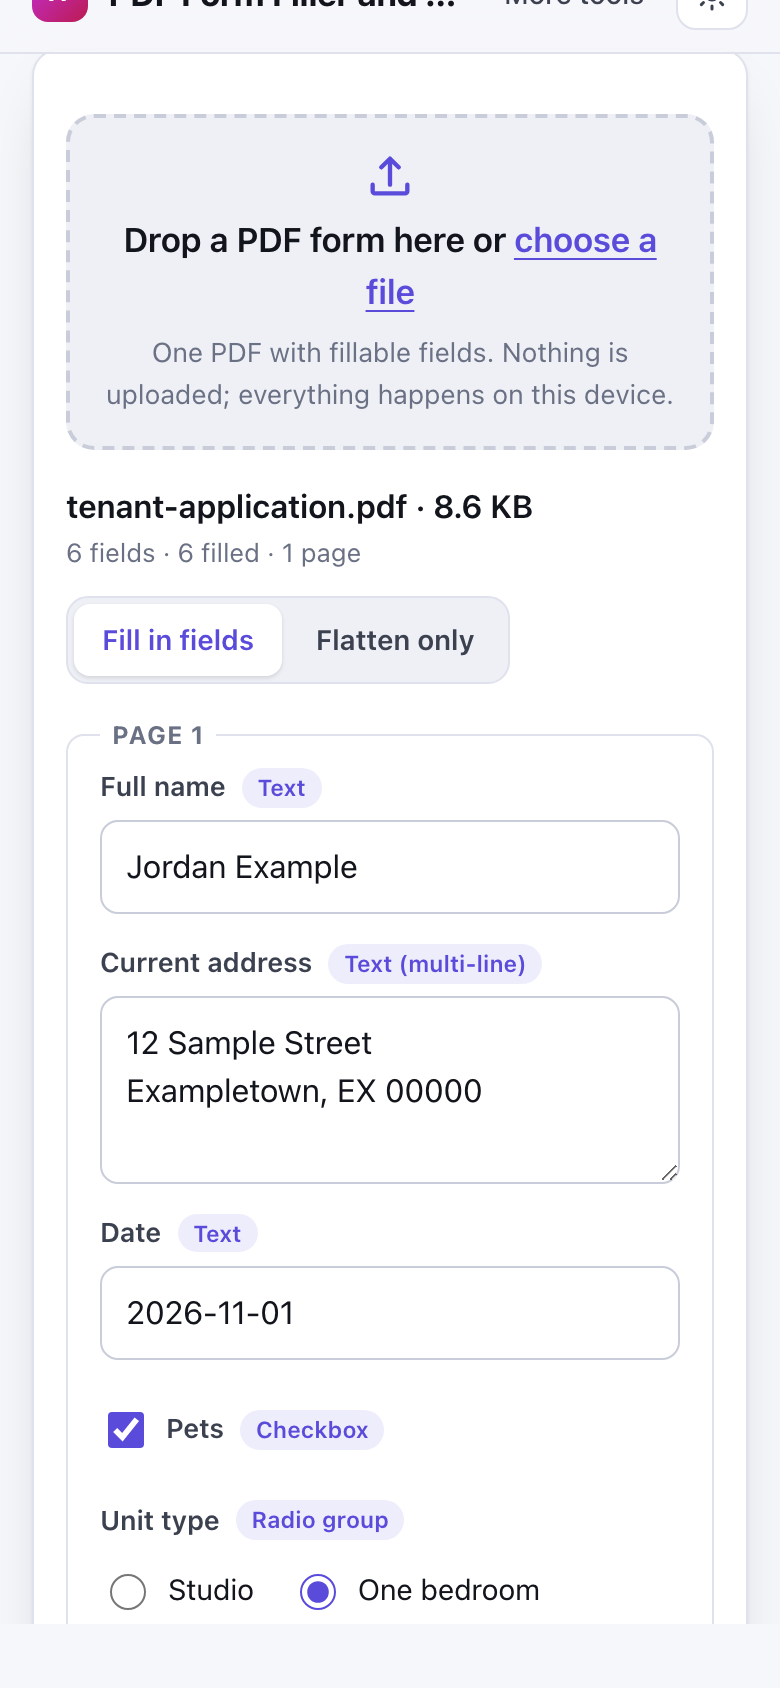
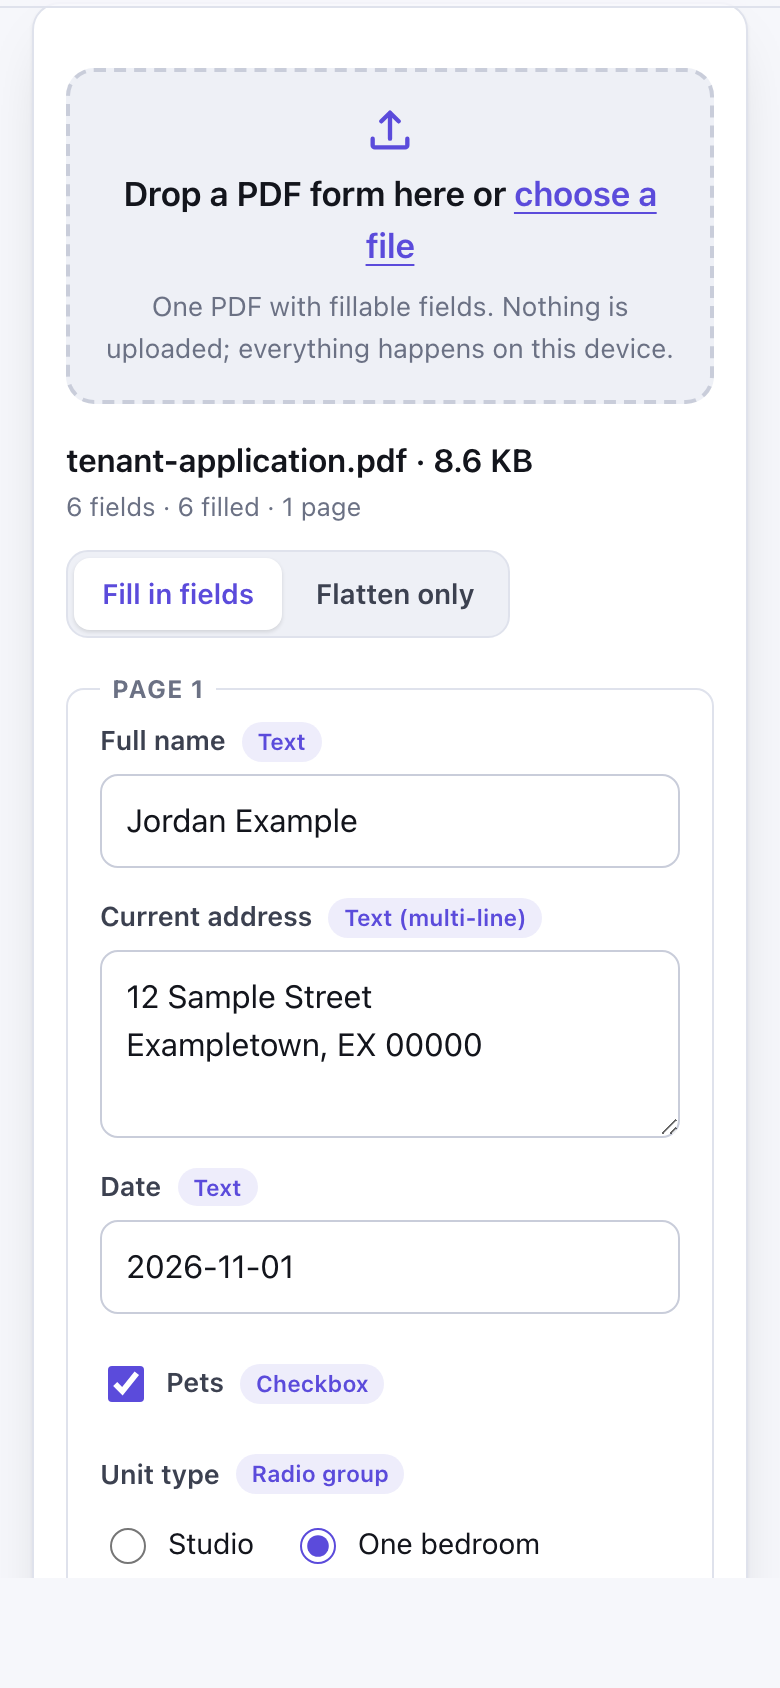
Update tool, tests and docs

diff --git a/worker.js b/worker.js
@@ -4,7 +4,7 @@
 /* global PDFLib */
 importScripts('vendor/pdf-lib/pdf-lib.min.js');
 
-const { PDFDocument, PDFName, StandardFonts, PDFTextField, PDFCheckBox, PDFRadioGroup, PDFDropdown, PDFOptionList, PDFSignature, PDFButton } = PDFLib;
+const { PDFDocument, PDFName, PDFRef, StandardFonts, PDFTextField, PDFCheckBox, PDFRadioGroup, PDFDropdown, PDFOptionList, PDFSignature, PDFButton } = PDFLib;
 
 function kindOf(field) {
   // The minified build mangles constructor names, so classify with instanceof.
@@ -98,6 +98,86 @@ function fontSizeOf(field) {
   return m ? Number(m[1]) : 0;
 }
 
+// pdf-lib's auto font size (0) for multi-line fields picks a huge size and pushes every line after the
+// first outside the box, so compute a size where the wrapped text really fits and set it explicitly.
+function fitMultilineSize(field, font, text) {
+  const widget = field.acroField.getWidgets()[0];
+  if (!widget) return 10;
+  const rect = widget.getRectangle();
+  const width = Math.max(1, rect.width - 6);
+  const height = Math.max(1, rect.height - 4);
+  const lineHeight = 1.15;
+  const countLines = (size) => {
+    let lines = 0;
+    for (const para of String(text).split(/\r\n|\r|\n/)) {
+      const words = para.split(' ');
+      let line = '';
+      lines += 1;
+      for (const word of words) {
+        const candidate = line ? `${line} ${word}` : word;
+        if (font.widthOfTextAtSize(candidate, size) <= width || !line) line = candidate;
+        else { lines += 1; line = word; }
+      }
+    }
+    return lines;
+  };
+  for (let size = 12; size >= 4; size -= 0.5) {
+    if (countLines(size) * size * lineHeight <= height) return size;
+  }
+  return 4;
+}
+
+// Auto size (0) or a size the text no longer fits at (pdf-lib writes its oversized guess into the DA): shrink.
+function fitMultiline(field, font, text) {
+  if (!text) return;
+  const current = fontSizeOf(field);
+  const fitted = fitMultilineSize(field, font, text);
+  if (current === 0 || current > fitted) field.setFontSize(fitted);
+}
+
+// Widgets with no normal appearance make pdf-lib's flatten() and removeField() throw ("Unexpected N type").
+// Give them an empty appearance so they can be drawn (as nothing) or removed cleanly.
+function ensureAppearance(doc, widget) {
+  try { widget.getNormalAppearance(); return true; } catch { /* no /AP /N: repair below */ }
+  try {
+    const r = widget.getRectangle();
+    const xo = doc.context.formXObject([], { BBox: [0, 0, Math.max(1, r.width), Math.max(1, r.height)] });
+    widget.setNormalAppearance(doc.context.register(xo));
+    return true;
+  } catch {
+    return false;
+  }
+}
+
+// Remove a field even when pdf-lib's own removeField cannot (widget without a page or appearance).
+function removeFieldSafely(form, field) {
+  try { form.removeField(field); return true; } catch { /* fall back to detaching it from the field tree */ }
+  try {
+    const refs = [];
+    const kids = field.acroField.normalizedEntries().Kids;
+    if (kids) for (let i = 0; i < kids.size(); i++) { const k = kids.get(i); if (k instanceof PDFRef) refs.push(k); }
+    refs.push(field.ref);
+    for (const page of form.doc.getPages()) for (const ref of refs) { try { page.node.removeAnnot(ref); } catch { /* ignore */ } }
+    form.acroForm.removeField(field.acroField);
+    return true;
+  } catch {
+    return false;
+  }
+}
+
+// pdf-lib leaves the removed widgets' references in each page's /Annots; drop the ones that no longer resolve.
+function pruneAnnots(doc) {
+  for (const page of doc.getPages()) {
+    let annots;
+    try { annots = page.node.Annots(); } catch { continue; }
+    if (!annots) continue;
+    for (let i = annots.size() - 1; i >= 0; i--) {
+      const ref = annots.get(i);
+      if (ref instanceof PDFRef && !doc.context.lookup(ref)) annots.remove(i);
+    }
+  }
+}
+
 function applyValue(form, font, v) {
   const field = form.getField(v.name);
   const kind = kindOf(field);
@@ -110,8 +190,10 @@ function applyValue(form, font, v) {
       throw Object.assign(new Error(`text was cut to the field's limit of ${max} characters`), { partial: () => field.setText(text) });
     }
     field.setText(text);
-    // Long single-line text: switch to auto font size (0) so it shrinks to fit the box.
-    if (text && !field.isMultiline() && !field.isCombed()) {
+    if (field.isMultiline()) {
+      fitMultiline(field, font, text);
+    } else if (text && !field.isCombed()) {
+      // Long single-line text: switch to auto font size (0) so it shrinks to fit the box.
       const size = fontSizeOf(field) || 12;
       const widget = field.acroField.getWidgets()[0];
       if (widget && font.widthOfTextAtSize(text, size) > widget.getRectangle().width - 4) field.setFontSize(0);
@@ -155,7 +237,11 @@ async function save(bytes, values, flatten, flattenOnly, progress) {
     const kind = kindOf(field);
     if (kind === 'signature' || kind === 'button') continue;
     try {
-      if (field.needsAppearancesUpdate()) field.defaultUpdateAppearances(font);
+      if (field.needsAppearancesUpdate()) {
+        // Prefilled multi-line fields with auto size get the same fitted size as the ones typed here.
+        if (kind === 'text' && field.isMultiline()) fitMultiline(field, font, field.getText() || '');
+        field.defaultUpdateAppearances(font);
+      }
     } catch (err) {
       warnings.push({ field: field.getName(), message: `could not draw the value (${err.message || err})` });
     }
@@ -167,16 +253,22 @@ async function save(bytes, values, flatten, flattenOnly, progress) {
     for (const field of form.getFields()) {
       const kind = kindOf(field);
       let ok = true;
-      try {
-        for (const w of field.acroField.getWidgets()) { form.findWidgetPage(w); form.findWidgetAppearanceRef(field, w); }
-      } catch { ok = false; }
+      for (const w of field.acroField.getWidgets()) {
+        if (!ensureAppearance(doc, w)) ok = false;
+        try { form.findWidgetPage(w); form.findWidgetAppearanceRef(field, w); } catch { ok = false; }
+      }
       if (!ok || kind === 'signature') {
         if (kind === 'signature') warnings.push({ field: field.getName(), message: 'signature field skipped and removed (signing is not supported)' });
         else warnings.push({ field: field.getName(), message: 'removed because it has no drawable appearance' });
-        try { form.removeField(field); } catch { /* ignore */ }
+        if (!removeFieldSafely(form, field)) warnings.push({ field: field.getName(), message: 'could not be removed; it was left as is' });
       }
     }
-    form.flatten({ updateFieldAppearances: false });
+    try {
+      form.flatten({ updateFieldAppearances: false });
+    } catch (err) {
+      throw Object.assign(new Error(`the form could not be flattened (${err.message || err}). Try saving with "Flatten after filling" off.`), { code: 'flatten' });
+    }
+    pruneAnnots(doc);
   }
   progress(0.85);
   const out = await doc.save();

diff --git a/tests/smoke.spec.js b/tests/smoke.spec.js
@@ -45,6 +45,25 @@ function pdfText(bytes) {
 const hex = (s) => Buffer.from(s, 'latin1').toString('hex').toUpperCase();
 const containsText = (bytes, s) => { const t = pdfText(bytes); return t.includes(s) || t.toUpperCase().includes(hex(s)); };
 
+// Font size and text positions of the appearance stream that draws `s` (hex encoded, as pdf-lib writes it).
+function drawnText(bytes, s) {
+  const raw = Buffer.from(bytes).toString('latin1');
+  const re = /stream\r?\n/g;
+  let m;
+  while ((m = re.exec(raw))) {
+    const start = m.index + m[0].length;
+    const end = raw.indexOf('endstream', start);
+    if (end < 0) break;
+    let text;
+    try { text = zlib.inflateSync(Buffer.from(raw.slice(start, end), 'latin1')).toString('latin1'); } catch { text = raw.slice(start, end); }
+    if (!text.toUpperCase().includes(hex(s))) continue;
+    const size = Number((text.match(/([\d.]+)\s+Tf/) || [])[1]);
+    const ys = [...text.matchAll(/1 0 0 1 [\d.-]+ ([\d.-]+) Tm/g)].map((x) => Number(x[1]));
+    return { size, ys };
+  }
+  return null;
+}
+
 test.describe('PDF Form Filler and Flattener', () => {
   test('loading the bundled form lists its fields with types', async ({ page }) => {
     await openForm(page);
@@ -100,6 +119,46 @@ test.describe('PDF Form Filler and Flattener', () => {
     // The download button in the result card offers the same file again.
     const [again] = await Promise.all([page.waitForEvent('download'), page.click('#download')]);
     expect(again.suggestedFilename()).toBe('tenant-application_filled.pdf');
+  });
+
+  test('multi-line text stays inside its box at a readable size when flattened', async ({ page }) => {
+    await openForm(page);
+    await page.getByLabel('Current address').fill('12 Sample Street\nExampletown, EX 00000\nThird line');
+    const bytes = await saveAndDownload(page);
+    expect((await PDFDocument.load(bytes)).getForm().getFields()).toHaveLength(0);
+    // pdf-lib's auto size used to pick ~53 pt and push lines 2+ below the 63 pt box, where they were clipped.
+    const drawn = drawnText(bytes, 'Exampletown, EX 00000');
+    expect(drawn, 'the second line is drawn').not.toBeNull();
+    expect(drawn.size).toBeGreaterThanOrEqual(4);
+    expect(drawn.size).toBeLessThanOrEqual(14);
+    expect(drawn.ys).toHaveLength(3);
+    for (const y of drawn.ys) { expect(y).toBeGreaterThanOrEqual(0); expect(y).toBeLessThanOrEqual(63); }
+  });
+
+  test('a form with an unsigned signature field that has no appearance still flattens', async ({ page }) => {
+    await page.goto('./');
+    await page.setInputFiles('#file-input', fixture('signature-form.pdf'));
+    await expect(page.locator('#summary')).toHaveText(/2 fields · 0 filled · 1 page · 1 skipped/);
+    await expect(field(page, 'Signature').locator('.ff__type').first()).toHaveText('Signature');
+    await expect(field(page, 'Signature')).toContainText('skipped');
+    await page.getByLabel('Applicant').fill('Casey Placeholder');
+    await page.getByLabel('Notes').fill('first line\nsecond line');
+    const [download] = await Promise.all([page.waitForEvent('download'), page.click('#save')]);
+    expect(download.suggestedFilename()).toBe('signature-form_filled.pdf');
+    const bytes = fs.readFileSync(await download.path());
+    const doc = await PDFDocument.load(bytes);
+    expect(doc.getForm().getFields()).toHaveLength(0);
+    expect(containsText(bytes, 'Casey Placeholder')).toBe(true);
+    expect(containsText(bytes, 'second line')).toBe(true);
+    // No stale widget references are left on the page after flattening.
+    const annots = doc.getPage(0).node.Annots();
+    expect(annots ? annots.size() : 0).toBe(0);
+    await expect(page.locator('#results .alert--error')).toHaveCount(0);
+    await expect(page.locator('#warnings')).toContainText('Signature: signature field skipped');
+    // Flatten only works on the same file too.
+    await page.locator('label.seg', { hasText: 'Flatten only' }).click();
+    const [again] = await Promise.all([page.waitForEvent('download'), page.click('#save')]);
+    expect((await PDFDocument.load(fs.readFileSync(await again.path()))).getForm().getFields()).toHaveLength(0);
   });
 
   test('flatten only mode flattens the form as is', async ({ page }) => {

diff --git a/tests/fixtures/make-fixtures.js b/tests/fixtures/make-fixtures.js
@@ -2,7 +2,7 @@
 // Run from the tool folder: node tests/fixtures/make-fixtures.js
 const fs = require('fs');
 const path = require('path');
-const { PDFDocument, StandardFonts, rgb } = require('../../vendor/pdf-lib/pdf-lib.min.js');
+const { PDFDocument, StandardFonts, rgb, PDFString } = require('../../vendor/pdf-lib/pdf-lib.min.js');
 
 const out = (name) => path.join(__dirname, name);
 
@@ -63,8 +63,30 @@ async function encrypted() {
   fs.writeFileSync(out('encrypted.pdf'), Buffer.from(patched, 'latin1'));
 }
 
+// A short form whose unsigned signature field has no appearance stream (common in generated forms); the text
+// field has a multi-line box with auto font size. Both used to break flattening.
+async function signatureForm() {
+  const doc = await PDFDocument.create();
+  doc.setTitle('Signature Demo');
+  const page = doc.addPage([595, 842]);
+  const font = await doc.embedFont(StandardFonts.Helvetica);
+  const form = doc.getForm();
+  page.drawText('Signature Demo - fictional sample form', { x: 50, y: 780, size: 14, font });
+  form.createTextField('Applicant').addToPage(page, { x: 50, y: 700, width: 300, height: 24 });
+  const notes = form.createTextField('Notes');
+  notes.enableMultiline();
+  notes.addToPage(page, { x: 50, y: 600, width: 400, height: 60 });
+  const sig = doc.context.obj({ FT: 'Sig', T: PDFString.of('Signature'), Type: 'Annot', Subtype: 'Widget', Rect: [50, 480, 300, 540], F: 4, P: page.ref });
+  const sigRef = doc.context.register(sig);
+  form.acroForm.addField(sigRef);
+  page.node.addAnnot(sigRef);
+  form.updateFieldAppearances(font);
+  fs.writeFileSync(out('signature-form.pdf'), await doc.save({ updateFieldAppearances: false }));
+}
+
 (async () => {
   await tenantForm();
   await encrypted();
+  await signatureForm();
   console.log('fixtures written');
 })();

diff --git a/sw.js b/sw.js
@@ -1,6 +1,6 @@
 // sw.js — offline support. VERSION and ASSETS are generated by the factory from the real file list
 // (web_build.finalize_sw) right before the tests run; the builder does not edit this file.
-const VERSION = 'a20e1c0cee';
+const VERSION = 'c2d85b226d';
 const ASSETS = ["./", "./app.js", "./icon.svg", "./icons/icon-192.png", "./icons/icon-512.png", "./index.html", "./manifest.webmanifest", "./site.js", "./styles.css", "./vendor/pdf-lib/pdf-lib.min.js", "./worker.js"];
 const CACHE = `tool-${VERSION}`;
 

diff --git a/site.js b/site.js
@@ -43,6 +43,7 @@ if ('serviceWorker' in navigator && (location.protocol === 'https:' || ['localho
 
 // Tiny helpers tools can import: `import { toast, downloadBlob, formatBytes } from './site.js'`
 export function toast(message, ms = 2400) {
+  document.querySelectorAll('.toast').forEach((t) => t.remove()); // one toast at a time, never overlapping
   const el = document.createElement('div');
   el.className = 'toast';
   el.setAttribute('role', 'status');
